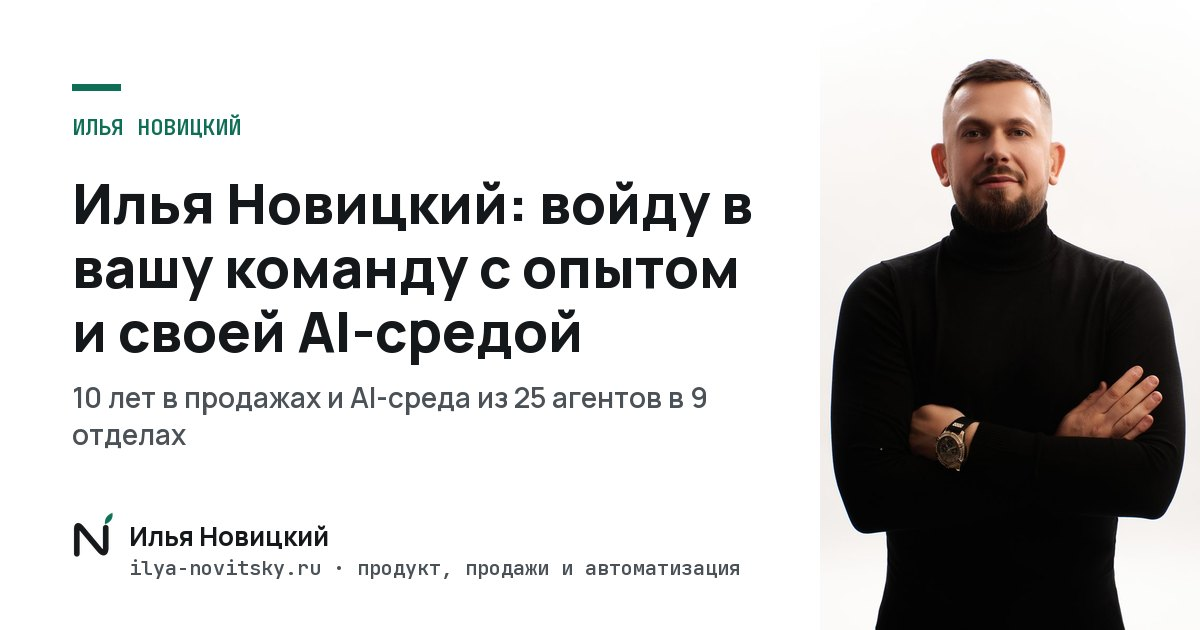
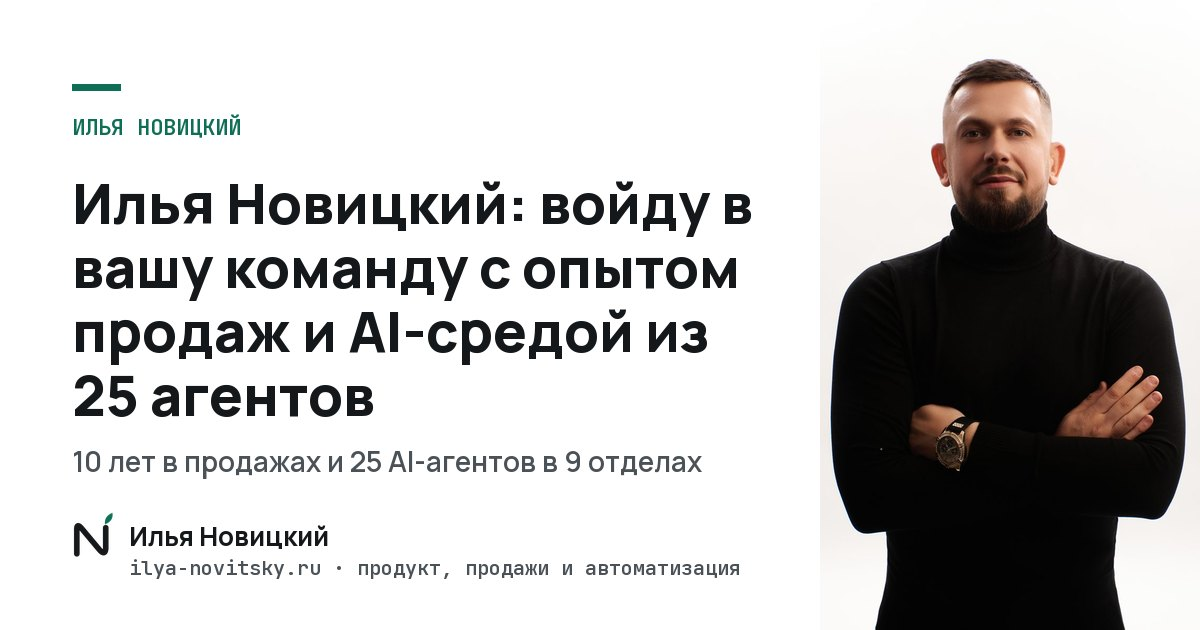
Главная: заголовок с цифрой агентов, уточнения «AI-среда», вычитка повторов (#141)

Changed region(s): [[0.0617, 0.4825, 0.5858, 0.754]]

diff --git a/content/pages/home.ts b/content/pages/home.ts
@@ -6,13 +6,13 @@ import { prices as P } from "@/config/prices";
 
 export const home = typo({
 	meta: {
-		title: "Илья Новицкий: войду в вашу команду с опытом и своей AI-средой",
+		title: "Илья Новицкий: войду в вашу команду с опытом продаж и AI-средой из 25 агентов",
 		description: "10 лет в продажах и AI-среда из 25 агентов и 130+ навыков: беру на себя продукт, привлечение клиентов, продажи и автоматизацию. Бесплатный разбор задачи за 30 минут.",
 	},
 
 	hero: {
 		pill: "Илья Новицкий · 10 лет в продажах",
-		h1: "Войду в вашу команду с опытом и своей AI-средой",
+		h1: "Войду в вашу команду с опытом продаж и AI-средой из 25 агентов",
 		lead: "Беру на себя продукт, привлечение клиентов, продажи и автоматизацию. Вы экономите на подрядчиках, найме и своём времени.",
 		primary: "Разобрать задачу бесплатно",
 		secondary: "Как это работает",
@@ -29,7 +29,7 @@ export const home = typo({
 				{ who: "Трафик", task: "медиаплан на месяц", st: "готово" },
 				{ who: "Продажи", task: "ответы на новые заявки", st: "в работе" },
 				{ who: "Разработка", task: "бот записи", st: "готово" },
-				{ who: "Контроль качества", task: "проверил тексты лендинга", st: "готово" },
+				{ who: "Контролёр качества", task: "проверил тексты лендинга", st: "готово" },
 			],
 		},
 		facts: [
@@ -41,10 +41,10 @@ export const home = typo({
 
 	team: {
 		num: "01",
-		label: "Моя среда",
+		label: "Моя AI-среда",
 		h2: "Задачи, на которые уходят недели, делаются за дни",
 		lead: "У каждой задачи свой агент: тексты, анализ, код, ответы клиентам. Я решаю, что делать, и проверяю каждую работу.",
-		note: "25 агентов, 130+ навыков. Всех сразу не подключаю: под вашу задачу собираю тех, кто нужен.",
+		note: "Всех агентов сразу не подключаю: под вашу задачу собираю тех, кто нужен.",
 		flowLabel: "Как я управляю",
 		flow: ["Вы ставите цель", "Я разбиваю её на задачи для агентов", "Агенты делают", "Контролёр качества проверяет", "Я принимаю и отвечаю перед вами"],
 		labels: { tasks: "Какие задачи решает", agents: "Агенты", me: "Что решаю я", mine: "Из моей работы", mineNote: "Пример из моих проектов, не обещание для вашего", cta: "Обсудить мою задачу" },
@@ -125,7 +125,7 @@ export const home = typo({
 					{ n: "Аналитик трафика", t: "откуда заявки, сколько стоит клиент, куда перенести бюджет" },
 				],
 				me: "Куда идём и сколько готовы тратить. Агенты готовят и считают, я выбираю.",
-				mine: "Директор по трафику ведёт четыре агента: разведчик-аналитик разобрал 26 авторов и 1 000+ роликов, сценарист пишет контент-план на 30 роликов, монтажёр собирает ролики, выпускающий готовит выкладку на Shorts, Reels и Threads.",
+				mine: "Для своего трафика собрал связку из директора и четырёх агентов. Разведчик-аналитик разобрал 26 авторов и 1 000+ роликов, сценарист пишет контент-план на 30 роликов, монтажёр собирает ролики, выпускающий выкладывает.",
 			},
 			{
 				name: "Персонал", skills: 10, line: "Вакансии, отклики и адаптация новичков по порядку.",
@@ -145,14 +145,14 @@ export const home = typo({
 				mine: "",
 			},
 		],
-		own: "На этой же среде я веду свои проекты: приложение, сайт, трафик и ботов.",
+		own: "На этой же AI-среде я веду свои проекты: приложение, сайт, трафик и ботов.",
 	},
 
 	proof: {
 		num: "02",
 		label: "Цифры из работы",
 		h2: "Цифры из моей работы, а не обещания",
-		lead: "Что среда уже разобрала и собрала на моих проектах.",
+		lead: "Что мои AI-агенты уже разобрали и собрали на реальных проектах.",
 		cards: [
 			{ num: "4 100+", unit: "сделок", text: "разобрана CRM агентства: где теряются клиенты и что приносит продажи", dep: "Продажи и клиенты" },
 			{ num: "1 000+", unit: "роликов", text: "26 авторов: разведчик-аналитик нашёл цепляющие начала и темы, сценарист собрал контент-план на 30 роликов", dep: "Реклама и трафик" },
@@ -169,10 +169,10 @@ export const home = typo({
 		num: "03",
 		label: "Что это даёт",
 		h2: "Вы экономите на подрядчиках, найме и своём времени",
-		lead: "Один человек со своей средой закрывает то, на что обычно нанимают отдел или собирают подрядчиков.",
+		lead: "Один человек со своими AI-агентами закрывает то, на что обычно нанимают отдел или собирают подрядчиков.",
 		cards: [
 			{ from: "5 подрядчиков", to: "1 человек", title: "Не нужно пять подрядчиков", text: "Сайт, тексты, боты и аналитика у одного человека. Не надо ставить задачи каждому и сводить их работу." },
-			{ from: "найм отдела", to: "готовая среда", title: "Не нужно нанимать отдел", text: "Не придётся искать, обучать и держать в штате маркетолога, дизайнера и разработчика." },
+			{ from: "найм отдела", to: "готовые AI-отделы", title: "Не нужно нанимать отдел", text: "Не придётся искать, обучать и держать в штате маркетолога, дизайнера и разработчика." },
 			{ from: "рутина на вас", to: "рутина у агентов", title: "Ваше время уходит на ваше дело", text: "Рутину берут агенты, а вы занимаетесь тем, что двигает бизнес." },
 			{ from: "ошибки за ваш счёт", to: "опыт 10 лет", title: "Меньше ошибок", text: "10 лет в продажах: многие тупики я уже прошёл и обхожу их заранее." },
 		],
@@ -225,7 +225,7 @@ export const home = typo({
 		cta: "Обсудить задачу",
 		items: [
 			{
-				id: "sreda", title: "Консультация «Своя AI-среда»", line: "Покажу, как собрать такую среду под ваши задачи.", price: P.consult.price, term: P.consult.term,
+				id: "sreda", title: "Консультация «Своя AI-среда»", line: "Покажу, как собрать свою AI-среду с агентами под ваши задачи.", price: P.consult.price, term: P.consult.term,
 				inc: ["разбираем вашу работу и задачи на созвоне", "показываю, какие агенты вам нужны и как их собрать", "в тот же день PDF-инструкция для вашего Mac"],
 				link: { href: "/svoya-ai-sreda", t: "Подробнее о консультации" },
 				note: "",
@@ -257,7 +257,7 @@ export const home = typo({
 		num: "08",
 		label: "Разбор задачи",
 		h2: "За 30 минут узнаете, как можно решить вашу задачу",
-		lead: "Бесплатно. Разберём вашу задачу, и я покажу, как решал бы её.",
+		lead: "Бесплатно. Разберём её вместе, и я покажу, как решал бы её.",
 		ask: "Где вы сейчас?",
 		options: ["Хочу человека в команду", "Нужно понять, где теряются клиенты", "Нужно построить продукт, сайт или бота", "Хочу свою AI-среду"],
 		copied: "Скопировал ваш выбор: вставьте его в первое сообщение.",

diff --git a/content/pages/faq.ts b/content/pages/faq.ts
@@ -4,7 +4,7 @@ import { typo } from "@/lib/typo";
 
 export const faq = typo([
 	{ q: "Что будет на бесплатном разборе?", a: "**Разберём вашу задачу, и я покажу, как решал бы её.** Это 30 минут и ни к чему не обязывает." },
-	{ q: "У меня нет команды, это подойдёт?", a: "**Да.** Тогда я и моя среда закрываем то, на что обычно нанимают людей." },
+	{ q: "У меня нет команды, это подойдёт?", a: "**Да.** Тогда я и мои AI-агенты закрываем то, на что обычно нанимают людей." },
 	{ q: "Сколько моего времени нужно?", a: "**Решения и согласования.** Остальное делаю я." },
 	{ q: "Что останется у меня, если мы закончим?", a: "**Всё сделанное:** документы, код, доступы. Условия в [оферте](/offer)." },
 	{ q: "Кому я не подойду?", a: "**Если нужно просто подешевле,** платить за часы или предложить долю вместо оплаты." },

diff --git a/src/lib/seo.ts b/src/lib/seo.ts
@@ -23,7 +23,7 @@ export function pageMeta(raw: PageMeta, path: string, og: string, opts: { absolu
 		alternates: { canonical: path },
 		openGraph: {
 			type: opts.type || "website", locale: "ru_RU", siteName: site.name, url: path, title: ogTitle, description: m.description,
-			images: [{ url: `/og/${og}.jpg?v=2026102301`, width: 1200, height: 630, alt: ogTitle }],
+			images: [{ url: `/og/${og}.jpg?v=2026102302`, width: 1200, height: 630, alt: ogTitle }],
 			...(opts.modified ? { modifiedTime: opts.modified } : {}),
 		},
 		twitter: { card: "summary_large_image" },
